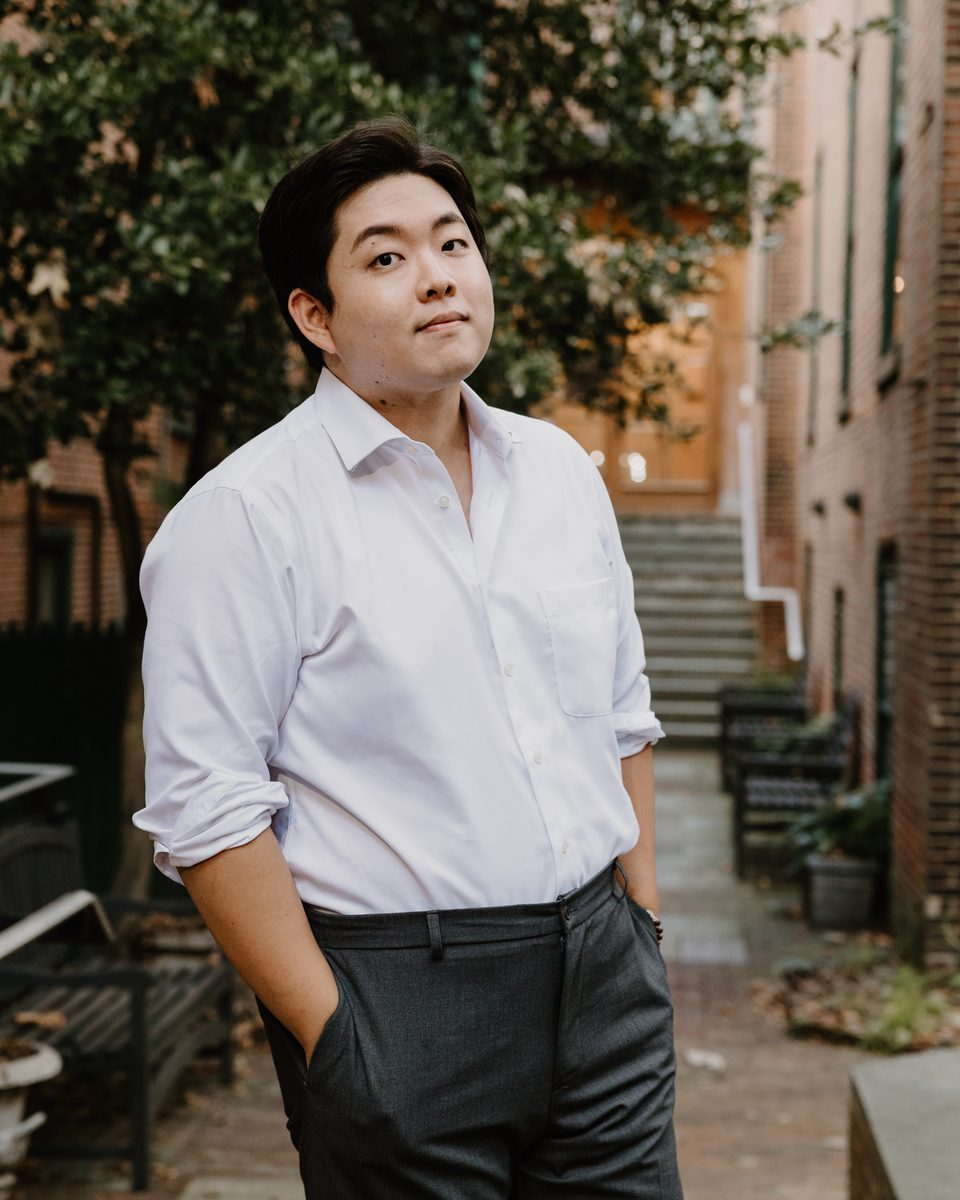
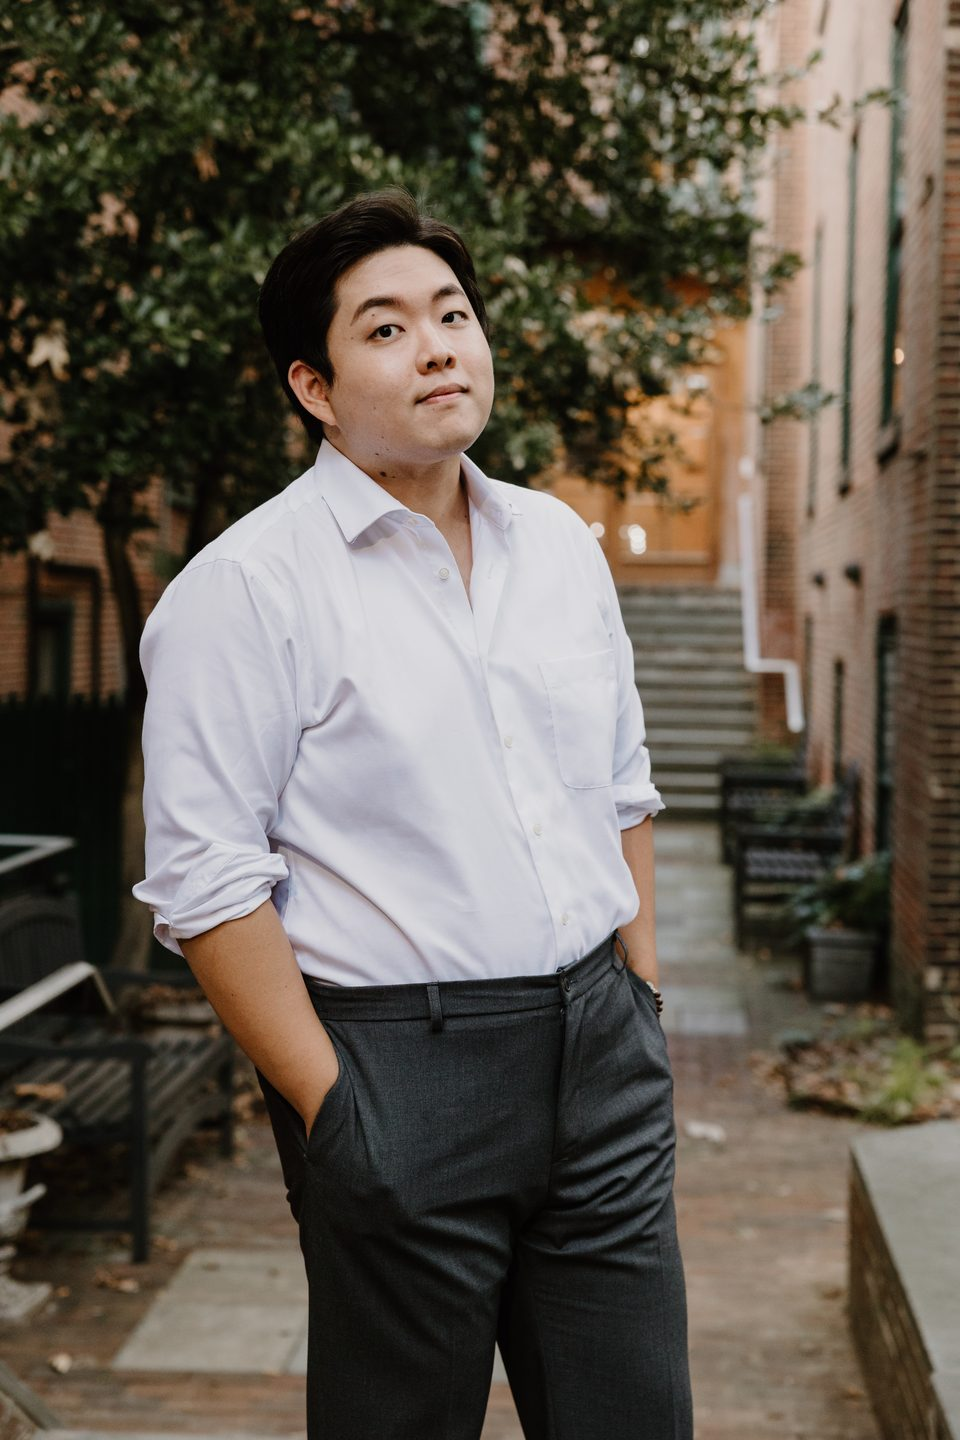
About: photo height matches the bio (aligned top and bottom), 2:3 portrait sources

diff --git a/css/style.css b/css/style.css
@@ -330,11 +330,13 @@ h3 { font-size: .72rem; font-weight: 500; letter-spacing: .25em; text-transform:
 .media-more[hidden] { display: none; }
 
 /* ── ABOUT: 프로필 사진 자동 넘김 + 글 ─────── */
-.about-wrap { max-width: 1040px; display: grid; grid-template-columns: minmax(0, 5fr) minmax(0, 7fr); gap: 0 64px; align-items: start; }
+.about-wrap { max-width: 1040px; display: grid; grid-template-columns: minmax(0, 5fr) minmax(0, 7fr); gap: 0 64px; }
+.about-text .bio p:last-child { margin-bottom: 0; }
 .about-text h2 { margin-bottom: 40px; }
 .about-wrap .training { grid-column: 1 / -1; }
-.about-slides { position: relative; aspect-ratio: 4 / 5; overflow: hidden; background: var(--gray-1); margin-top: 8px; }
-.about-slides img { position: absolute; inset: 0; width: 100%; height: 100%; object-fit: cover; opacity: 0; transform: scale(1.06);
+/* 데스크톱: 사진 높이 = 글 높이 (위는 Biography, 아래는 마지막 줄에 맞춤) */
+.about-slides { position: relative; min-height: 460px; overflow: hidden; background: var(--gray-1); }
+.about-slides img { position: absolute; inset: 0; width: 100%; height: 100%; object-fit: cover; object-position: 50% 35%; opacity: 0; transform: scale(1.06);
   transition: opacity 1.6s ease, transform 7s ease-out; }
 .about-slides img.on { opacity: 1; transform: scale(1); }
 .about-dots { position: absolute; left: 0; right: 0; bottom: 14px; display: flex; justify-content: center; gap: 6px; z-index: 1; }
@@ -344,6 +346,6 @@ h3 { font-size: .72rem; font-weight: 500; letter-spacing: .25em; text-transform:
 @media (prefers-reduced-motion: reduce) { .about-slides img { transform: none; transition: opacity .8s ease; } }
 @media (max-width: 820px) {
   .about-wrap { grid-template-columns: 1fr; }
-  .about-slides { width: 100%; max-width: 440px; margin: 0 auto 48px; }
+  .about-slides { width: 100%; max-width: 440px; min-height: 0; aspect-ratio: 4 / 5; margin: 0 auto 48px; }
 }
 }

diff --git a/index.html b/index.html
@@ -24,7 +24,7 @@
   <script>
     /* 최신 버전 확인: 브라우저에 저장된 예전 페이지면 자동으로 새로 불러옴 (주소는 그대로 유지) */
     (function () {
-      var PAGE_VERSION = "20261002001029";
+      var PAGE_VERSION = "20261002001306";
       try {
         var u = new URL(location.href);
         if (u.searchParams.has("_v")) { u.searchParams.delete("_v"); history.replaceState(null, "", u.pathname + (u.search || "") + u.hash); }
@@ -37,7 +37,7 @@
       } catch (e) {}
     })();
   </script>
-  <link rel="stylesheet" href="css/style.css?v=20261002001029">
+  <link rel="stylesheet" href="css/style.css?v=20261002001306">
 </head>
 <body>
 
@@ -208,6 +208,6 @@
     <button class="modal-nav next" aria-label="Next">&#8250;</button>
   </div>
 
-  <script src="js/main.js?v=20261002001029"></script>
+  <script src="js/main.js?v=20261002001306"></script>
 </body>
 </html>
